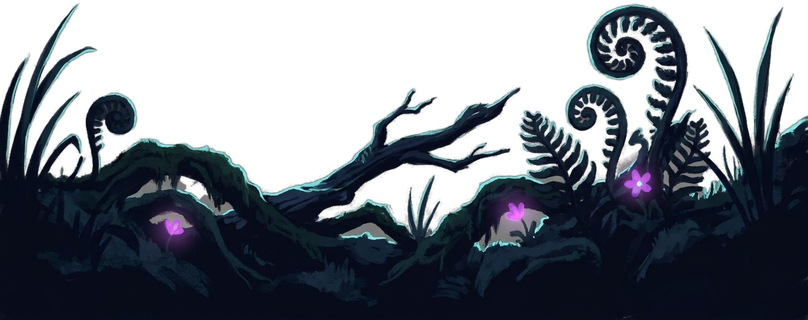
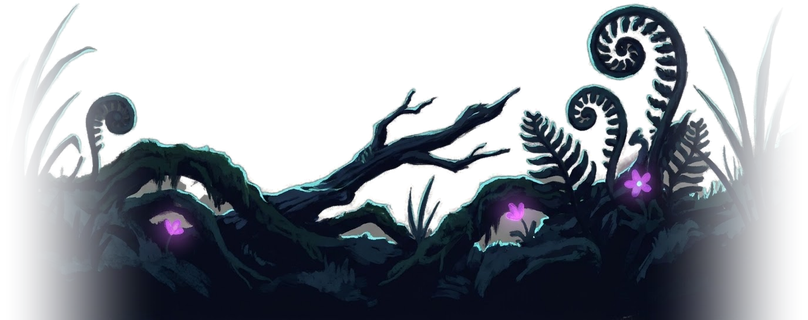
Celular: Timtim acima dos botões de toque; folhagem da frente sem corte reto
- No iPhone ele corria escondido atrás do botão ▶ e parecia sumir. Com botões de toque, a câmera
  mira 46 px mais baixo (o chão sobe), ele fica mais para o meio da tela e os botões ficaram menores.
- A folhagem da frente desce junto com a câmera do celular, e as bordas laterais da arte agora
  somem aos poucos: antes apareciam blocos escuros com corte reto embaixo da tela (também no computador).
- Conferido no motor do Safari imitando um iPhone, nas 3 fases.

Changed region(s): [[0.8354, 0.0312, 1.0, 1.0], [0.0, 0.0312, 0.1856, 1.0]]

diff --git a/game/src/render3d.js b/game/src/render3d.js
@@ -11,6 +11,9 @@ const VG_PLAT = { 380: 'cama', 718: 'cadeira', 5000: 'toldo', 5500: 'toldo', 528
 // celular (dedo, não mouse): começa no nível do meio. A tela já tem muitos pixels; o nível máximo pesava e, quando o jogo
 // baixava a qualidade sozinho no meio da fase, a imagem dava um tranco (sombras e desfoque sumindo de uma vez)
 const MOBILE = matchMedia('(pointer: coarse)').matches;
+// com os botões de toque na tela, a câmera mira mais baixo: o chão sobe e o Timtim anda acima dos botões
+// (no iPhone ele corria escondido atrás do botão ▶, parecia que tinha sumido)
+const DESCE = ('ontouchstart' in window || navigator.maxTouchPoints > 0) ? 46 : 0;
 const R = TT.R = { ready: false, quality: MOBILE ? 1 : 2, flash: 0 };
 const cv = document.getElementById('c');
 let renderer;
@@ -510,7 +513,7 @@ sky.scale.set(4700, 2700, 1); sky.position.set(0, 300, -3000);
   // os galhos pendurados na frente não viram mancha preta no meio da tela: no Arraial ficam num marrom quente e meio transparentes
   const galhoM = texGalhos && new THREE.MeshBasicMaterial({ map: texGalhos, color: VG ? 0xfff6f0 : ARR ? 0x7a5340 : 0xffffff, opacity: VG ? 0.95 : ARR ? 0.7 : 1, transparent: true, depthWrite: false, fog: false, side: THREE.DoubleSide });
   for (let i = 0, x = -200; x < END - 300; i++, x += 620 + (i * 397 % 420)) {
-    const m = new THREE.Mesh(planeGeo, frenteM[i % 2]), hh = 150 + (i % 3) * 22; m.scale.set(hh * FRENTE_AR[i % 2] * (i % 4 > 1 ? -1 : 1), hh, 1); m.position.set(x, -78, 350 + (i % 2) * 50); add(m, 9);
+    const m = new THREE.Mesh(planeGeo, frenteM[i % 2]), hh = 150 + (i % 3) * 22; m.scale.set(hh * FRENTE_AR[i % 2] * (i % 4 > 1 ? -1 : 1), hh, 1); m.position.set(x, -78 - DESCE, 350 + (i % 2) * 50); add(m, 9); // (desce junto com a câmera do celular: senão aparecia o corte reto de baixo da folhagem)
     if (i % 2) { const t = new THREE.Mesh(planeGeoTop, galhoM); const gh = 250 + (i % 3) * 30; t.scale.set(gh * GALHO_AR * (i % 4 === 1 ? -1 : 1), gh, 1); t.position.set(x + 310, ARR ? 600 : 500, 330); add(t, 9); }
   }
 })();
@@ -1325,8 +1328,8 @@ R.frame = (rdt) => {
   const ks = camSettle > 0 ? Math.min(1, rdt * (4 + (0.9 - camSettle) * 10)) : 1;
   R.zoom += (zt - R.zoom) * kk; fxS += (fx - fxS) * ks; fyS += (fy - fyS) * ks;
   const tr = S.trauma * S.trauma * (TT.calmo ? 0.2 : 1), sx = tr * 16 * Math.sin(time * 71), sy = tr * 11 * Math.sin(time * 93 + 1); // "menos tremor": 20% do tremor
-  camera.position.set(fxS + sx + Math.sin(time * 0.6) * 1.5, CAM_Y + (fyS - LOOK_Y) + sy + Math.sin(time * 0.8) * 1.2, CAM_D);
-  camera.lookAt(fxS + sx, fyS + sy, 0); camera.rotation.z += tr * 0.025 * Math.sin(time * 57);
+  camera.position.set(fxS + sx + Math.sin(time * 0.6) * 1.5, CAM_Y + (fyS - LOOK_Y) - DESCE + sy + Math.sin(time * 0.8) * 1.2, CAM_D);
+  camera.lookAt(fxS + sx, fyS - DESCE + sy, 0); camera.rotation.z += tr * 0.025 * Math.sin(time * 57);
   camera.zoom = R.zoom; camera.updateProjectionMatrix();
   sun.target.position.set(fxS, 0, 0); sun.position.set(fxS + 250, 820, 380); sun.target.updateMatrixWorld();
   sky.position.set(camera.position.x, camera.position.y + 30, -3000); // o céu está no infinito: acompanha a câmera

diff --git a/game/index.html b/game/index.html
@@ -202,10 +202,10 @@
   /* ---------- toque ---------- */
   #touch { display: none; }
   #touch.on { display: block; }
-  .tbtn { position: absolute; bottom: 4%; width: 11cqw; height: 11cqw; border-radius: 50%; background: rgba(44, 18, 40, .4); border: .14cqw solid var(--line); color: var(--text);
+  .tbtn { position: absolute; bottom: 3%; width: 9.5cqw; height: 9.5cqw; border-radius: 50%; background: rgba(44, 18, 40, .4); border: .14cqw solid var(--line); color: var(--text);
     font-size: 3.6cqw; pointer-events: auto; touch-action: none; display: grid; place-items: center; padding: 0; }
   .tbtn.down { background: rgba(255, 214, 160, .28); border-color: var(--glow); box-shadow: 0 0 3cqw rgba(255, 214, 160, .6); transform: scale(.94); }
-  #tL { left: 3%; } #tR { left: 16.5%; } #tJ { right: 3%; width: 13cqw; height: 13cqw; } #tS { right: 19%; width: 9cqw; height: 9cqw; font-size: 3cqw; }
+  #tL { left: 3%; } #tR { left: 14.5%; } #tJ { right: 3%; width: 12cqw; height: 12cqw; } #tS { right: 18%; width: 8cqw; height: 8cqw; font-size: 2.8cqw; }
   /* ---------- estante de brinquedos perdidos ---------- */
   #shelf { z-index: 5; background: linear-gradient(rgba(18, 7, 18, .38), rgba(18, 7, 18, .62)), url(assets/bg/shelf.jpg) center / cover; } /* casinha de madeira à noite */
   #shelf .card { min-width: 0; width: 78cqw; padding: 2.4cqw 3cqw 2.6cqw; }

diff --git a/game/src/game.js b/game/src/game.js
@@ -3,6 +3,7 @@
 'use strict';
 const TT = window.TT = window.TT || {};
 
+const TOQUE = typeof window !== 'undefined' && ('ontouchstart' in window || navigator.maxTouchPoints > 0);
 const C = TT.C = {
   W: 960, H: 540, GROUND: 452, GRAV: 2300, JUMP_V: -860, RUN: 310, FAST: 440, SLOW: 175,
   LEVEL_END: 9800, ARENA_X: 8840,
@@ -744,7 +745,8 @@ TT.update = (rdt) => {
   // câmera
   const cam = S.cam;
   cam.look += (p.vx * 0.32 - cam.look) * Math.min(1, dt * 2.5);
-  const want = S.arena ? ARENA_X : Math.max(0, Math.min(ARENA_X, p.x - W * 0.4 + cam.look));
+  // no celular ele fica um pouco mais para o meio da tela, longe dos botões de andar no canto
+  const want = S.arena ? ARENA_X : Math.max(0, Math.min(ARENA_X, p.x - W * (TOQUE ? 0.46 : 0.4) + cam.look));
   cam.x += (want - cam.x) * Math.min(1, dt * 5);
   const wantY = S.arena ? Math.max(C.FOX ? -170 : -60, Math.min(FASE === 3 ? -50 : 0, (p.y + p.h - (GROUND - 150)) * (C.FOX ? 0.45 : 0.3))) : Math.max(-260, Math.min(0, (p.y + p.h - (GROUND - 70)) * 0.6)); // sobe junto quando ele vai alto (planando, a argola): não fica colado no placar
   cam.y += (wantY - cam.y) * Math.min(1, dt * 3.4);
